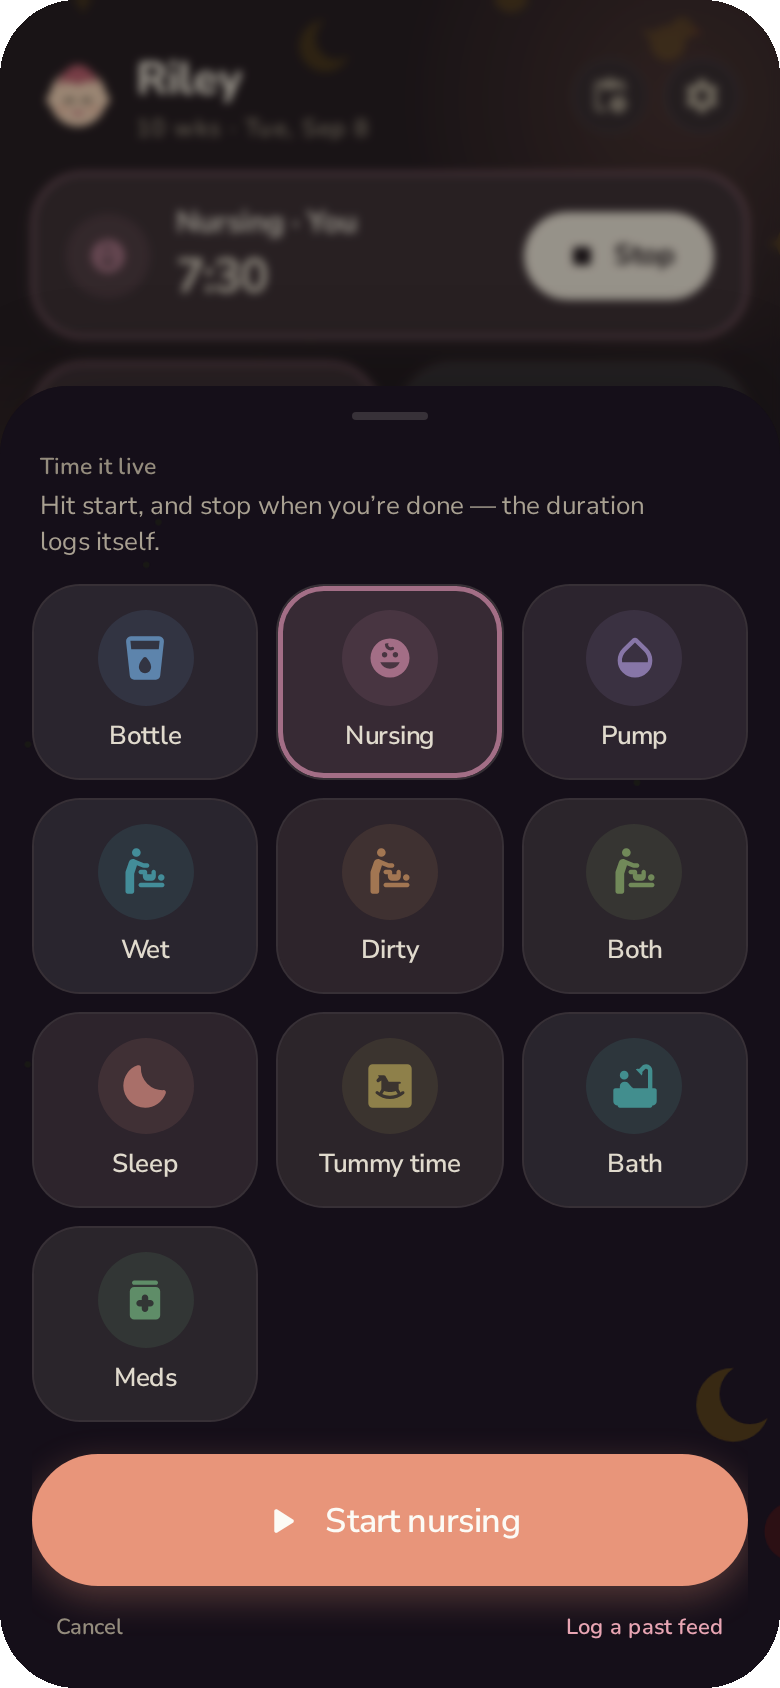
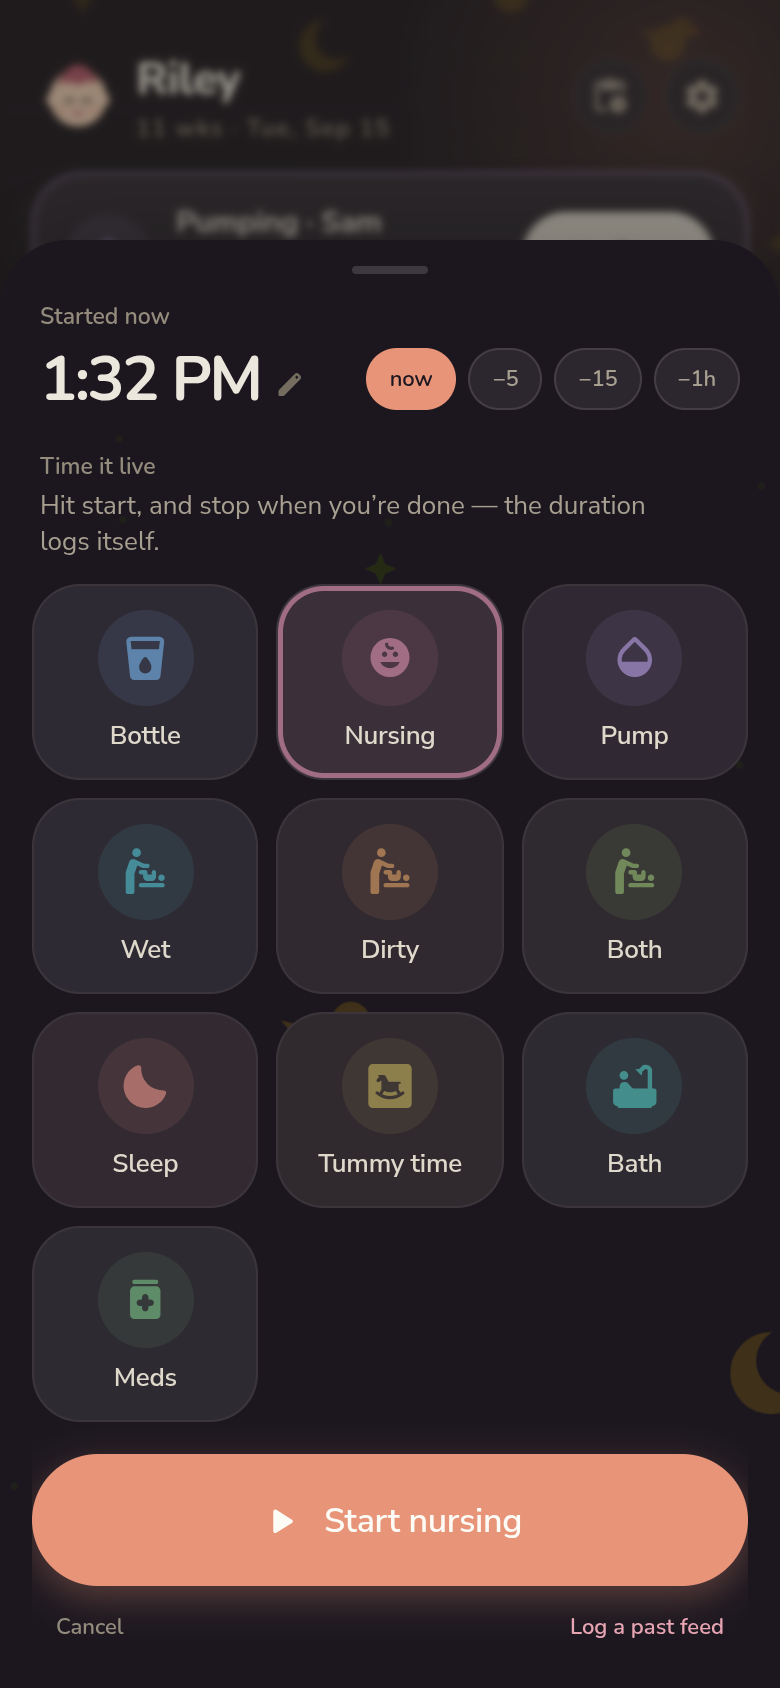
feat: sleep timers start "15m ago", and fixing a start keeps the wake-up
The timer usually gets started after the baby is already down, and fixing
that afterwards meant setting the start and then re-dialing the duration,
because moving a nap's start moved its end too.

- The timer sheet keeps the time row: −5/−15/−1h or a picked time backdates
  the start, sent as started_at on POST /timer/start (clamped to now and a
  day back).
- Picking a sleep/tummy start holds the end still, and the duration grows or
  shrinks to fit. A start that would make it a 14h+ session moves the nap
  instead. The nudges do the same on a span edit.
- Spans print "Ended 6:10 AM" under the start as its own picker, which holds
  the start: the fix for a timer left running.

diff --git a/src/App.jsx b/src/App.jsx
@@ -1432,6 +1432,11 @@ export default class App extends React.Component {
     const side = type === 'nurse' ? (this.state.detail || this.defaultDetail('nurse')) : null
     // the sheet's child chip (when >1 child) decides who this session is for
     const babyId = this.state.sheetChildId ?? this.selChildId()
+    // the sheet's time row backdates the start — the timer usually gets
+    // started after the baby's already down. Untouched, it starts now and the
+    // request carries no started_at at all.
+    const startedAt = this.timerStart()
+    const backdated = startedAt < Date.now() - 30000
     // client-generated id, entry-style — the optimistic row IS the server timer,
     // so a reconcile mid-flight can't duplicate it
     const id = uuid()
@@ -1439,10 +1444,10 @@ export default class App extends React.Component {
     this.closeSheet() // animated close that also consumes the {blSheet} history entry
     this.setState(s => ({
       manualDur: false,
-      activeTimers: [...s.activeTimers, { id, type, started_at: Date.now(), user_id: s.me?.id, baby_id: babyId }],
+      activeTimers: [...s.activeTimers, { id, type, started_at: startedAt, user_id: s.me?.id, baby_id: babyId }].sort((a, b) => (a.started_at || 0) - (b.started_at || 0)),
       timerSides: side ? { ...s.timerSides, [id]: side } : s.timerSides,
     }))
-    api.timerStart(type, babyId, id)
+    api.timerStart(type, babyId, id, backdated ? startedAt : null)
       .then(r => this.setState(s => {
         // the server may hand back an already-running identical session
         // (double-tap) — adopt its copy either way, carrying the side across
@@ -1821,6 +1826,18 @@ export default class App extends React.Component {
     return this.anchorsStart() ? a + this.stampShift() : a
   }
   shownStamp() { return this.stamp() - this.stampShift() }
+  // the timer path: the sheet's time row is when the session STARTED, with no
+  // duration to shift by — and a start can't be in the future
+  timerStart() {
+    const { pickedT, offset } = this.state
+    if (pickedT == null && !offset) return Date.now()
+    return Math.min(Date.now(), pickedT ?? this._base + offset * 60000)
+  }
+  // whether the sheet is on its live-timer path (vs logging a past session)
+  timing() {
+    const s = this.state
+    return ['nurse', 'pump', 'sleep', 'tummy'].includes(s.sel) && !s.editId && !s.manualDur
+  }
   // the gap between the wire stamp and the shown start: 0 for everything except
   // a sleep/tummy sheet, where it's the duration currently on the scrub
   stampShift(k) {
@@ -2102,7 +2119,16 @@ export default class App extends React.Component {
     else if (d.field === 'detail2') this.setState(s => ({ detail2: s.detail2 === d.base ? null : d.base, scrubDrag: null })) // tap toggles, as before
     else this.setState({ detail: d.base, scrubDrag: null })
   }
-  nudge = n => () => this.setState({ offset: n, pickedT: null, dayPicked: false })
+  nudge = n => () => {
+    // on a span being edited the nudges walk the start off the row's own start
+    // (−15 = it began 15m earlier) and, like a picked start, leave the end be
+    if (this.state.editId && SPANS.includes(this.state.sel)) {
+      const mins = Math.round((this.stamp() - (this._base + n * 60000)) / 60000)
+      if (mins >= 1) this.setState({ offset: n, pickedT: null, detail: mins })
+      return
+    }
+    this.setState({ offset: n, pickedT: null, dayPicked: false })
+  }
   pickTime = e => {
     const [h, m] = e.target.value.split(':').map(Number)
     if (Number.isNaN(h) || Number.isNaN(m)) return
@@ -2112,10 +2138,37 @@ export default class App extends React.Component {
     // Reading the day off what the sheet SHOWS was a trap: a 45m nap opened at
     // 12:20am shows 11:35 PM yesterday, so 12:05 AM landed on yesterday
     // 12:05 AM — a full day early, and nowhere near the top of the log
-    const d = new Date(this.dayPicked() ? this.shownStamp() : Date.now()); d.setHours(h, m, 0, 0)
+    // A span's END holds still when its start moves. The usual reason to fix
+    // a sleep's start is a timer started late: the wake-up it stopped on was
+    // real, so an earlier start means a longer sleep, not a shifted one. The
+    // start lands on the latest h:m before that end (9:40 PM → 6:10 AM moved
+    // to 7:30 PM is last evening, 12:15 AM inside a 11:30 PM nap is today).
+    // Only when that reads as an implausibly long session is the parent moving
+    // the nap somewhere else — then the duration stays and the start goes.
+    if (SPANS.includes(this.state.sel) && !this.timing()) {
+      const end = this.stamp()
+      const d = new Date(end); d.setHours(h, m, 0, 0)
+      let start = d.getTime()
+      if (start >= end) start -= DAY
+      const mins = Math.round((end - start) / 60000)
+      if (mins >= 1 && mins <= 14 * 60) return this.setState({ pickedT: start, offset: 0, detail: mins })
+    }
+    const d = new Date(this.dayPicked() ? (this.timing() ? this.timerStart() : this.shownStamp()) : Date.now()); d.setHours(h, m, 0, 0)
     let t = d.getTime()
     if (t > Date.now() + 60000) t -= DAY
     this.setState({ pickedT: t, offset: 0 })
+  }
+  // a span's end, picked directly: the start holds and the duration becomes
+  // the gap — the first h:m after the start, so a night crosses midnight on
+  // its own. The fix for a timer that ran on after the baby woke.
+  pickEnd = e => {
+    const [h, m] = e.target.value.split(':').map(Number)
+    if (Number.isNaN(h) || Number.isNaN(m)) return
+    const start = this.shownStamp()
+    const d = new Date(start); d.setHours(h, m, 0, 0)
+    let end = d.getTime()
+    if (end <= start) end += DAY
+    this.setState({ pickedT: start, offset: 0, detail: Math.max(1, Math.round((end - start) / 60000)) })
   }
   // ── the day, one tap deeper ────────────────────────────────────────────────
   // Backfilling used to stop at the day boundary: the nudges reach an hour back
@@ -2272,11 +2325,13 @@ export default class App extends React.Component {
     const live = this.live()
     const st = T(s.sel || 'bottle')
     const step = Number(this.props.timeStep ?? 5) || 5
-    const stampT = s.sheet ? this.stamp() : Date.now()
+    const timing = s.sheet && this.timing()
+    const stampT = s.sheet ? (timing ? this.timerStart() : this.stamp()) : Date.now()
     // what the sheet PRINTS: a sleep/tummy sheet reads out the session's start,
     // not the wire stamp (its end), so "45m earlier" describes when the nap
-    // began — the same top-down reading as the rows it will join
-    const shownT = s.sheet ? this.shownStamp() : stampT
+    // began — the same top-down reading as the rows it will join. On the timer
+    // path it's the start the timer will run from.
+    const shownT = s.sheet && !timing ? this.shownStamp() : stampT
     const backMin = s.sheet ? Math.max(0, Math.round((this._base - shownT) / 60000)) : 0
     const dayBack = s.sheet ? this.dayOf(shownT) : '' // '' on today, else 'Yesterday' / '{n} days ago'
 
@@ -2758,10 +2813,15 @@ export default class App extends React.Component {
       // a stamp on another day says so up front — "11:40 PM" alone is a trap at
       // 3am, when the day is the thing you're most likely to have wrong
       sheetKicker: s.editId ? t('Editing entry') + (dayBack ? ' · ' + dayBack : '')
+        : timerFirst ? (backMin < 1 ? t('Started now') : t('Started {dur} ago', { dur: this.dur(backMin) })) + (dayBack ? ' · ' + dayBack : '')
         : dayBack || (backMin < 1 ? t('stamped now') : t('{dur} earlier', { dur: this.dur(backMin) })),
       stampTime: this.clock(shownT),
       stampHM: String(new Date(shownT).getHours()).padStart(2, '0') + ':' + String(new Date(shownT).getMinutes()).padStart(2, '0'),
       pickTime: this.pickTime,
+      // a span's other end, pickable on its own (hidden while timing — no end yet)
+      endTime: SPANS.includes(st.key) && !timerFirst && stampT > shownT ? t('Ended {time}', { time: this.clock(stampT) }) : null,
+      endHM: String(new Date(stampT).getHours()).padStart(2, '0') + ':' + String(new Date(stampT).getMinutes()).padStart(2, '0'),
+      pickEnd: this.pickEnd,
       showPicker: e => { try { e.currentTarget.showPicker() } catch { /* older browsers fall back to focus */ } },
       nudges, types,
       // Advanced: hidden on the timer path (a live timer starts now, so there's
@@ -2777,7 +2837,7 @@ export default class App extends React.Component {
       hasDetail: !!kind && !timerFirst, detailLabel: t(kind === 'amount' ? 'Amount' : kind === 'side' ? 'Side' : 'Duration'), detailOptions,
       hasDetail2: !!kind2 && !timerFirst, detail2Label: t(kind2 === 'milk' ? 'Milk' : kind2 === 'nap' ? 'Nap or night' : 'Duration'), detail2Options,
       scrubMove: this.scrubMove, scrubEnd: this.scrubEnd,
-      showStamp: !timerFirst,
+      showStamp: true,
       timerFirst,
       startTimerLabel: t(st.key === 'nurse' ? 'Start nursing' : st.key === 'sleep' ? 'Start sleep timer' : st.key === 'tummy' ? 'Start tummy time' : 'Start pumping'),
       startTimer: () => this.startTimer(st.key),
@@ -4530,6 +4590,7 @@ export default class App extends React.Component {
 
                 {v.showStamp && (
                 <div style={S('display:flex;align-items:flex-end;justify-content:space-between;padding:0 4px 12px')}>
+                  <div style={S('display:flex;flex-direction:column;gap:2px')}>
                   <label style={S('position:relative;display:flex;flex-direction:column;gap:3px;cursor:pointer')}>
                     <div style={S("font-family:'Nunito',sans-serif;font-weight:600;font-size:11.5px;color:#8C8474")}>{v.sheetKicker}</div>
                     <div style={S('display:flex;align-items:baseline;gap:7px')}>
@@ -4538,6 +4599,14 @@ export default class App extends React.Component {
                     </div>
                     <input type="time" value={v.stampHM} onChange={v.pickTime} onClick={v.showPicker} style={S('position:absolute;inset:0;width:100%;height:100%;opacity:0;border:0;padding:0;margin:0;cursor:pointer')} />
                   </label>
+                  {v.endTime && (
+                    <label style={S('position:relative;display:flex;align-items:center;gap:4px;cursor:pointer')}>
+                      <div style={S("font-family:'Nunito',sans-serif;font-weight:600;font-size:13px;color:#6E6659;letter-spacing:-0.01em")}>{v.endTime}</div>
+                      <Sym style={{ fontSize: 13, color: 'var(--faint)' }}>edit</Sym>
+                      <input type="time" aria-label={t('End time')} value={v.endHM} onChange={v.pickEnd} onClick={v.showPicker} style={S('position:absolute;inset:0;width:100%;height:100%;opacity:0;border:0;padding:0;margin:0;cursor:pointer')} />
+                    </label>
+                  )}
+                  </div>
                   <div style={S('display:flex;gap:6px;padding-bottom:6px')}>
                     {v.nudges.map((n, i) => (
                       <button key={i} type="button" onClick={n.onTap} style={S(`background:${n.bg};border:1px solid ${n.border};border-radius:999px;padding:7px 11px;font-family:'Nunito',sans-serif;font-weight:600;font-size:11px;color:${n.fg};cursor:pointer;letter-spacing:-0.01em`)}>{n.label}</button>

diff --git a/src/test/app.test.jsx b/src/test/app.test.jsx
@@ -382,13 +382,15 @@ describe('logging a past sleep across midnight', () => {
     expect(box.pushed.entries[0].t - 30 * 60_000).toBe(at(0, 5)) // today
   })
 
-  it('a time later than now still means last night', async () => {
+  it('a time later than now still means last night — and the wake-up stays put', async () => {
     const { user, box } = await openPastSleep(at(0, 20))
     fireEvent.change(timeInput(), { target: { value: '23:50' } })
     expect(screen.getByText('Yesterday')).toBeInTheDocument()
     await user.click(screen.getByText(/Save sleep/))
     await waitFor(() => expect(box.pushed).toBeTruthy())
-    expect(box.pushed.entries[0].t - 45 * 60_000).toBe(at(23, 50) - 86400000)
+    // down at 11:50 PM, up now: the start moved, the end didn't
+    expect(box.pushed.entries[0].t).toBe(at(0, 20))
+    expect(box.pushed.entries[0].detail).toBe('30')
   })
 
   it('a picked start stays put when the duration changes — the wake-up moves instead', async () => {
@@ -411,6 +413,76 @@ describe('logging a past sleep across midnight', () => {
     await user.click(screen.getByText(/Save sleep/))
     await waitFor(() => expect(box.pushed).toBeTruthy())
     expect(box.pushed.entries[0].t).toBe(at(15, 0)) // ended now
+  })
+
+  // the timer usually gets started after the baby's already down: the sleep
+  // it stopped on ended when it said, it just began earlier
+  const openNapEdit = async (clock, entry) => {
+    vi.useFakeTimers({ toFake: ['Date'] })
+    vi.setSystemTime(clock)
+    const user = userEvent.setup()
+    seedSignedIn({ entries: [{ id: 'e-nap', deleted: false, by: 1, babyId: null, type: 'sleep', ...entry }] })
+    const box = {}
+    routes['GET /state'] = () => okJson(stateFixture())
+    routes['POST /entries'] = opts => { box.pushed = JSON.parse(opts.body); return okJson({ ok: true }) }
+    renderApp()
+    await user.click(screen.getByText('Sleep'))
+    await waitFor(() => new Promise(res => requestAnimationFrame(() => requestAnimationFrame(res))))
+    return { user, box }
+  }
+  const endInput = () => screen.getByLabelText('End time')
+
+  it('editing a late-started night back to its real start keeps the wake-up', async () => {
+    // the timer ran 9:40 PM → 6:10 AM; the baby actually went down at 7:30 PM
+    const { user, box } = await openNapEdit(at(7, 0), { t: at(6, 10), detail: 'Night · 510m' })
+    expect(timeInput().value).toBe('21:40')
+    fireEvent.change(timeInput(), { target: { value: '19:30' } })
+    expect(timeInput().value).toBe('19:30')
+    expect(screen.getByText('Ended 6:10 AM')).toBeInTheDocument()
+    await user.click(screen.getByText(/Update sleep/))
+    await waitFor(() => expect(box.pushed).toBeTruthy())
+    expect(box.pushed.entries[0].t).toBe(at(6, 10))
+    expect(box.pushed.entries[0].detail).toBe('Night · 640m') // 10h 40m
+  })
+
+  it('a start moved inside a nap that crossed midnight stays on the same night', async () => {
+    const { user, box } = await openNapEdit(at(2, 0), { t: at(1, 0), detail: 90 }) // 11:30 PM → 1:00 AM
+    fireEvent.change(timeInput(), { target: { value: '00:15' } })
+    await user.click(screen.getByText(/Update sleep/))
+    await waitFor(() => expect(box.pushed).toBeTruthy())
+    expect(box.pushed.entries[0].t).toBe(at(1, 0))
+    expect(box.pushed.entries[0].detail).toBe('45')
+  })
+
+  it('a start nowhere near the wake-up moves the nap instead of stretching it', async () => {
+    // 1:00 → 1:45 PM moved to 3:00 PM: a 22h45m sleep is not what was meant
+    const { user, box } = await openNapEdit(at(18, 0), { t: at(13, 45), detail: 45 })
+    fireEvent.change(timeInput(), { target: { value: '15:00' } })
+    await user.click(screen.getByText(/Update sleep/))
+    await waitFor(() => expect(box.pushed).toBeTruthy())
+    expect(box.pushed.entries[0].t).toBe(at(15, 45))
+    expect(box.pushed.entries[0].detail).toBe('45')
+  })
+
+  it('on a nap edit, −15 means it began fifteen minutes earlier, same wake-up', async () => {
+    const { user, box } = await openNapEdit(at(15, 0), { t: at(13, 0), detail: 60 }) // 12:00 → 1:00 PM
+    await user.click(screen.getByText('−15'))
+    expect(timeInput().value).toBe('11:45')
+    expect(screen.getByText('Ended 1:00 PM')).toBeInTheDocument()
+    await user.click(screen.getByText(/Update sleep/))
+    await waitFor(() => expect(box.pushed).toBeTruthy())
+    expect(box.pushed.entries[0].t).toBe(at(13, 0))
+    expect(box.pushed.entries[0].detail).toBe('75')
+  })
+
+  it('picking the end keeps the start — the fix for a timer left running', async () => {
+    const { user, box } = await openNapEdit(at(15, 0), { t: at(14, 30), detail: 'Nap · 150m' }) // 12:00 → 2:30 PM
+    fireEvent.change(endInput(), { target: { value: '13:10' } })
+    expect(timeInput().value).toBe('12:00')
+    await user.click(screen.getByText(/Update sleep/))
+    await waitFor(() => expect(box.pushed).toBeTruthy())
+    expect(box.pushed.entries[0].t).toBe(at(13, 10))
+    expect(box.pushed.entries[0].detail).toBe('Nap · 70m')
   })
 
   it('editing a nap keeps the start the row showed while its duration changes', async () => {

diff --git a/src/test/timers.test.jsx b/src/test/timers.test.jsx
@@ -271,7 +271,35 @@ describe('multi-timer rows', () => {
 
     expect(startBody.type).toBe('nurse')
     expect(startBody.id).toBeTruthy() // client-generated, entry-style
+    expect(startBody).not.toHaveProperty('started_at') // untouched = starts now, server's clock
     expect(await screen.findByText('Nursing · You')).toBeInTheDocument()
+  })
+
+  // the timer usually gets started after the baby's already down
+  it('a sleep timer started "15m ago" runs from then, on the card and on the wire', async () => {
+    const user = userEvent.setup()
+    seedSignedIn()
+    let startBody
+    routes['GET /state'] = () => okJson(stateFixture())
+    routes['POST /timer/start'] = opts => {
+      startBody = JSON.parse(opts.body)
+      return okJson({ ok: true, timer: { id: startBody.id, type: startBody.type, started_at: startBody.started_at, user_id: 1, baby_id: null } })
+    }
+    renderApp()
+
+    await user.click(screen.getByText('add'))
+    await waitFor(() => new Promise(res => requestAnimationFrame(() => requestAnimationFrame(res))))
+    await user.click(screen.getByText('Sleep'))
+    expect(screen.getByText('Started now')).toBeInTheDocument()
+    const t0 = Date.now()
+    await user.click(screen.getByText('−15'))
+    expect(screen.getByText('Started 15m ago')).toBeInTheDocument()
+    await user.click(screen.getByText('Start sleep timer'))
+
+    expect(startBody.type).toBe('sleep')
+    expect(Math.abs(startBody.started_at - (t0 - 15 * 60_000))).toBeLessThan(5000)
+    expect(await screen.findByText('Sleep · You')).toBeInTheDocument()
+    expect(screen.getAllByText(/^15:0\d$/).length).toBeGreaterThan(0) // the stopwatch already reads 15 minutes
   })
 })
 

diff --git a/src/api.js b/src/api.js
@@ -64,7 +64,8 @@ export const api = {
   mqttTest: b => call('/integrations/mqtt/test', { method: 'POST', body: b }), // {ok, message?} — a 200 either way
   pushEntries: entries => call('/entries', { method: 'POST', body: { entries } }),
   // baby_id absent → primary child; id is our client-generated timer id (entry-style)
-  timerStart: (type, babyId, id) => call('/timer/start', { method: 'POST', body: { type, ...(babyId != null ? { baby_id: babyId } : {}), ...(id ? { id } : {}) } }),
+  // startedAt (ms) backdates a timer started after the baby already went down
+  timerStart: (type, babyId, id, startedAt) => call('/timer/start', { method: 'POST', body: { type, ...(babyId != null ? { baby_id: babyId } : {}), ...(id ? { id } : {}), ...(startedAt != null ? { started_at: startedAt } : {}) } }),
   // re-open a sleep that already ended (the stir-and-settle case): the timer
   // comes back backdated to where that entry began and carries `resumes`, so
   // stopping it rewrites that entry instead of stacking a second nap

diff --git a/src/locales/te.js b/src/locales/te.js
@@ -387,6 +387,10 @@ export default {
   'Three taps, then back to the baby.': 'మూడు ట్యాప్లు, మళ్లీ బిడ్డ దగ్గరకి.',
   'Tilt parallax': 'టిల్ట్ పారలాక్స్',
   'Time it live': 'లైవ్గా టైమ్ చేయండి',
+  'Started now': 'ఇప్పుడే మొదలైంది',
+  'Started {dur} ago': '{dur} క్రితం మొదలైంది',
+  'Ended {time}': '{time}కి ముగిసింది',
+  'End time': 'ముగింపు సమయం',
   'to': 'వరకు',
   'Today': 'ఈరోజు',
   'Today so far': 'ఈరోజు ఇప్పటివరకు',

diff --git a/src/locales/bn.js b/src/locales/bn.js
@@ -387,6 +387,10 @@ export default {
   'Three taps, then back to the baby.': 'তিনটা টোকা, তারপর আবার শিশুর কাছে।',
   'Tilt parallax': 'টিল্ট প্যারালাক্স',
   'Time it live': 'লাইভ সময় মাপুন',
+  'Started now': 'এখন শুরু হয়েছে',
+  'Started {dur} ago': '{dur} আগে শুরু হয়েছে',
+  'Ended {time}': '{time}-এ শেষ হয়েছে',
+  'End time': 'শেষ হওয়ার সময়',
   'to': 'পর্যন্ত',
   'Today': 'আজ',
   'Today so far': 'আজ এ পর্যন্ত',

diff --git a/src/locales/mr.js b/src/locales/mr.js
@@ -387,6 +387,10 @@ export default {
   'Three taps, then back to the baby.': 'तीन टॅप, आणि पुन्हा बाळाकडे.',
   'Tilt parallax': 'टिल्ट पॅरलॅक्स',
   'Time it live': 'लाइव्ह वेळ मोजा',
+  'Started now': 'आत्ता सुरू झाले',
+  'Started {dur} ago': '{dur} आधी सुरू झाले',
+  'Ended {time}': '{time} ला संपले',
+  'End time': 'संपण्याची वेळ',
   'to': 'पर्यंत',
   'Today': 'आज',
   'Today so far': 'आज आत्तापर्यंत',

diff --git a/src/locales/hi.js b/src/locales/hi.js
@@ -387,6 +387,10 @@ export default {
   'Three taps, then back to the baby.': 'तीन टैप, और फिर वापस बेबी के पास।',
   'Tilt parallax': 'टिल्ट पैरालैक्स',
   'Time it live': 'लाइव टाइम करें',
+  'Started now': 'अभी शुरू हुआ',
+  'Started {dur} ago': '{dur} पहले शुरू हुआ',
+  'Ended {time}': '{time} पर खत्म हुआ',
+  'End time': 'खत्म होने का समय',
   'to': 'तक',
   'Today': 'आज',
   'Today so far': 'आज अब तक',

diff --git a/src/locales/ru.js b/src/locales/ru.js
@@ -387,6 +387,10 @@ export default {
   'Three taps, then back to the baby.': 'Три касания — и обратно к малышу.',
   'Tilt parallax': 'Параллакс при наклоне',
   'Time it live': 'Засечь вживую',
+  'Started now': 'Началось сейчас',
+  'Started {dur} ago': 'Началось {dur} назад',
+  'Ended {time}': 'Закончилось в {time}',
+  'End time': 'Время окончания',
   'to': 'до',
   'Today': 'Сегодня',
   'Today so far': 'Сегодня пока',

diff --git a/src/locales/ur.js b/src/locales/ur.js
@@ -387,6 +387,10 @@ export default {
   'Three taps, then back to the baby.': 'تین ٹیپ، اور واپس بچے کے پاس۔',
   'Tilt parallax': 'جھکاؤ کا اثر',
   'Time it live': 'لائیو وقت ناپیں',
+  'Started now': 'ابھی شروع ہوا',
+  'Started {dur} ago': '{dur} پہلے شروع ہوا',
+  'Ended {time}': '{time} پر ختم ہوا',
+  'End time': 'ختم ہونے کا وقت',
   'to': 'تا',
   'Today': 'آج',
   'Today so far': 'آج اب تک',

diff --git a/src/locales/ar.js b/src/locales/ar.js
@@ -387,6 +387,10 @@ export default {
   'Three taps, then back to the baby.': 'ثلاث لمسات، ثم عودة إلى الرضيع.',
   'Tilt parallax': 'تأثير الميل',
   'Time it live': 'وقّته مباشرة',
+  'Started now': 'بدأ الآن',
+  'Started {dur} ago': 'بدأ قبل {dur}',
+  'Ended {time}': 'انتهى {time}',
+  'End time': 'وقت الانتهاء',
   'to': 'إلى',
   'Today': 'اليوم',
   'Today so far': 'اليوم حتى الآن',

diff --git a/src/locales/fr.js b/src/locales/fr.js
@@ -387,6 +387,10 @@ export default {
   'Three taps, then back to the baby.': 'Trois gestes, et retour au bébé.',
   'Tilt parallax': 'Parallaxe d’inclinaison',
   'Time it live': 'Chronomètre en direct',
+  'Started now': 'Commencé maintenant',
+  'Started {dur} ago': 'Commencé il y a {dur}',
+  'Ended {time}': 'Terminé à {time}',
+  'End time': 'Heure de fin',
   'to': 'à',
   'Today': 'Aujourd’hui',
   'Today so far': 'Aujourd’hui jusqu’ici',
